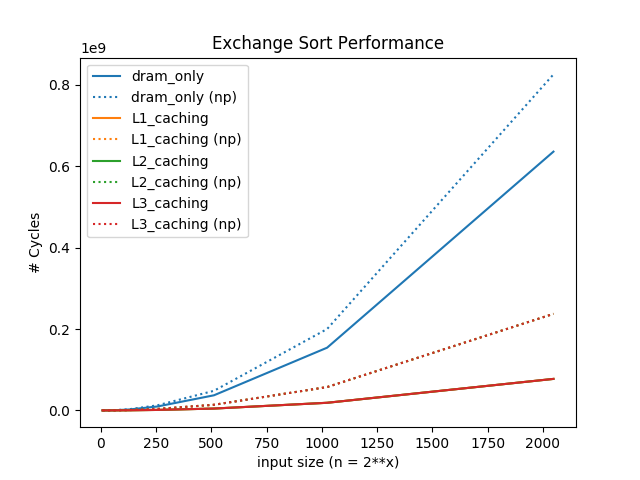
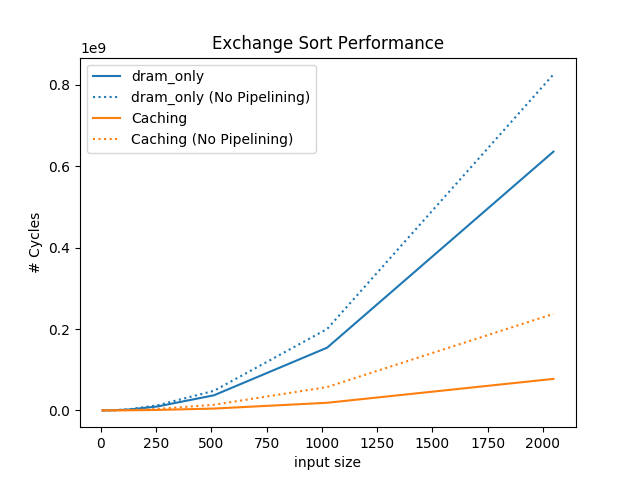
Updated benchmark results

diff --git a/scripts/generate_visuals.py b/scripts/generate_visuals.py
@@ -2,32 +2,12 @@ import matplotlib.pyplot as plt
 import csv
 
 
-def generate_sample():
-
-    x = [1, 2, 3, 4, 5, 6, 7, 8]
-    y = [1, 2, 4, 8, 16, 32, 64, 48]
-
-    """
-    with open('example.txt','r') as csvfile:
-        plots = csv.reader(csvfile, delimiter=',')
-        for row in plots:
-            x.append(int(row[0]))
-            y.append(int(row[1]))
-    """
-
-    plt.plot(x,y, label='sample graph')
-    plt.xlabel('x')
-    plt.ylabel('y')
-    plt.title('Interesting Graph\nCheck it out')
-    plt.legend()
-    plt.show()
-
 def generate_exchange_sort_graphs():
     '''name,pipeline_enabled,input_size,cycles,correct'''
 
     data = dict()
 
-    with open("scripts/results/exchange_sort_Apr19_v3.txt") as f:
+    with open("scripts/results/exchange_sort_Apr23.txt") as f:
         rows = csv.reader(f, delimiter=',')
         next(rows) # skip header
 
@@ -57,12 +37,12 @@ def generate_exchange_sort_graphs():
             plt.plot(x, y)
 
 
-        plt.legend(['pipelined', 'not'], loc='upper left')
+        plt.legend(['Pipelined', 'Not'], loc='upper left')
         plt.xlabel('input size')
         plt.ylabel('# Cycles')
         plt.title(name)
-        plt.savefig('scripts/results/{}.png'.format(name))
-        print('scripts/results/{}.png saved'.format(name))
+        plt.savefig('scripts/results/{}_Apr23.png'.format(name))
+        print('scripts/results/{}_Apr23.png saved'.format(name))
         plt.clf()
 
     # Graph combined
@@ -82,16 +62,16 @@ def generate_exchange_sort_graphs():
         print(name, y)
         if len(y) != 0:
             plt.plot(x, y, linestyle=':', color=colors[i])
-            legend.append(name + ' (np)')
+            legend.append(name + ' (No Pipelining)')
 
         i += 1
 
     plt.legend(legend, loc='upper left')
-    plt.xlabel('input size (n = 2**x)')
+    plt.xlabel('input size')
     plt.ylabel('# Cycles')
     plt.title('Exchange Sort Performance')
-    plt.savefig('scripts/results/exchange_sort.png')
-    print('scripts/results/exchange_sort.png')
+    plt.savefig('scripts/results/exchange_sort_Apr23.png')
+    print('scripts/results/exchange_sort_Apr23.png saved')
 
 
 if __name__ == "__main__":
